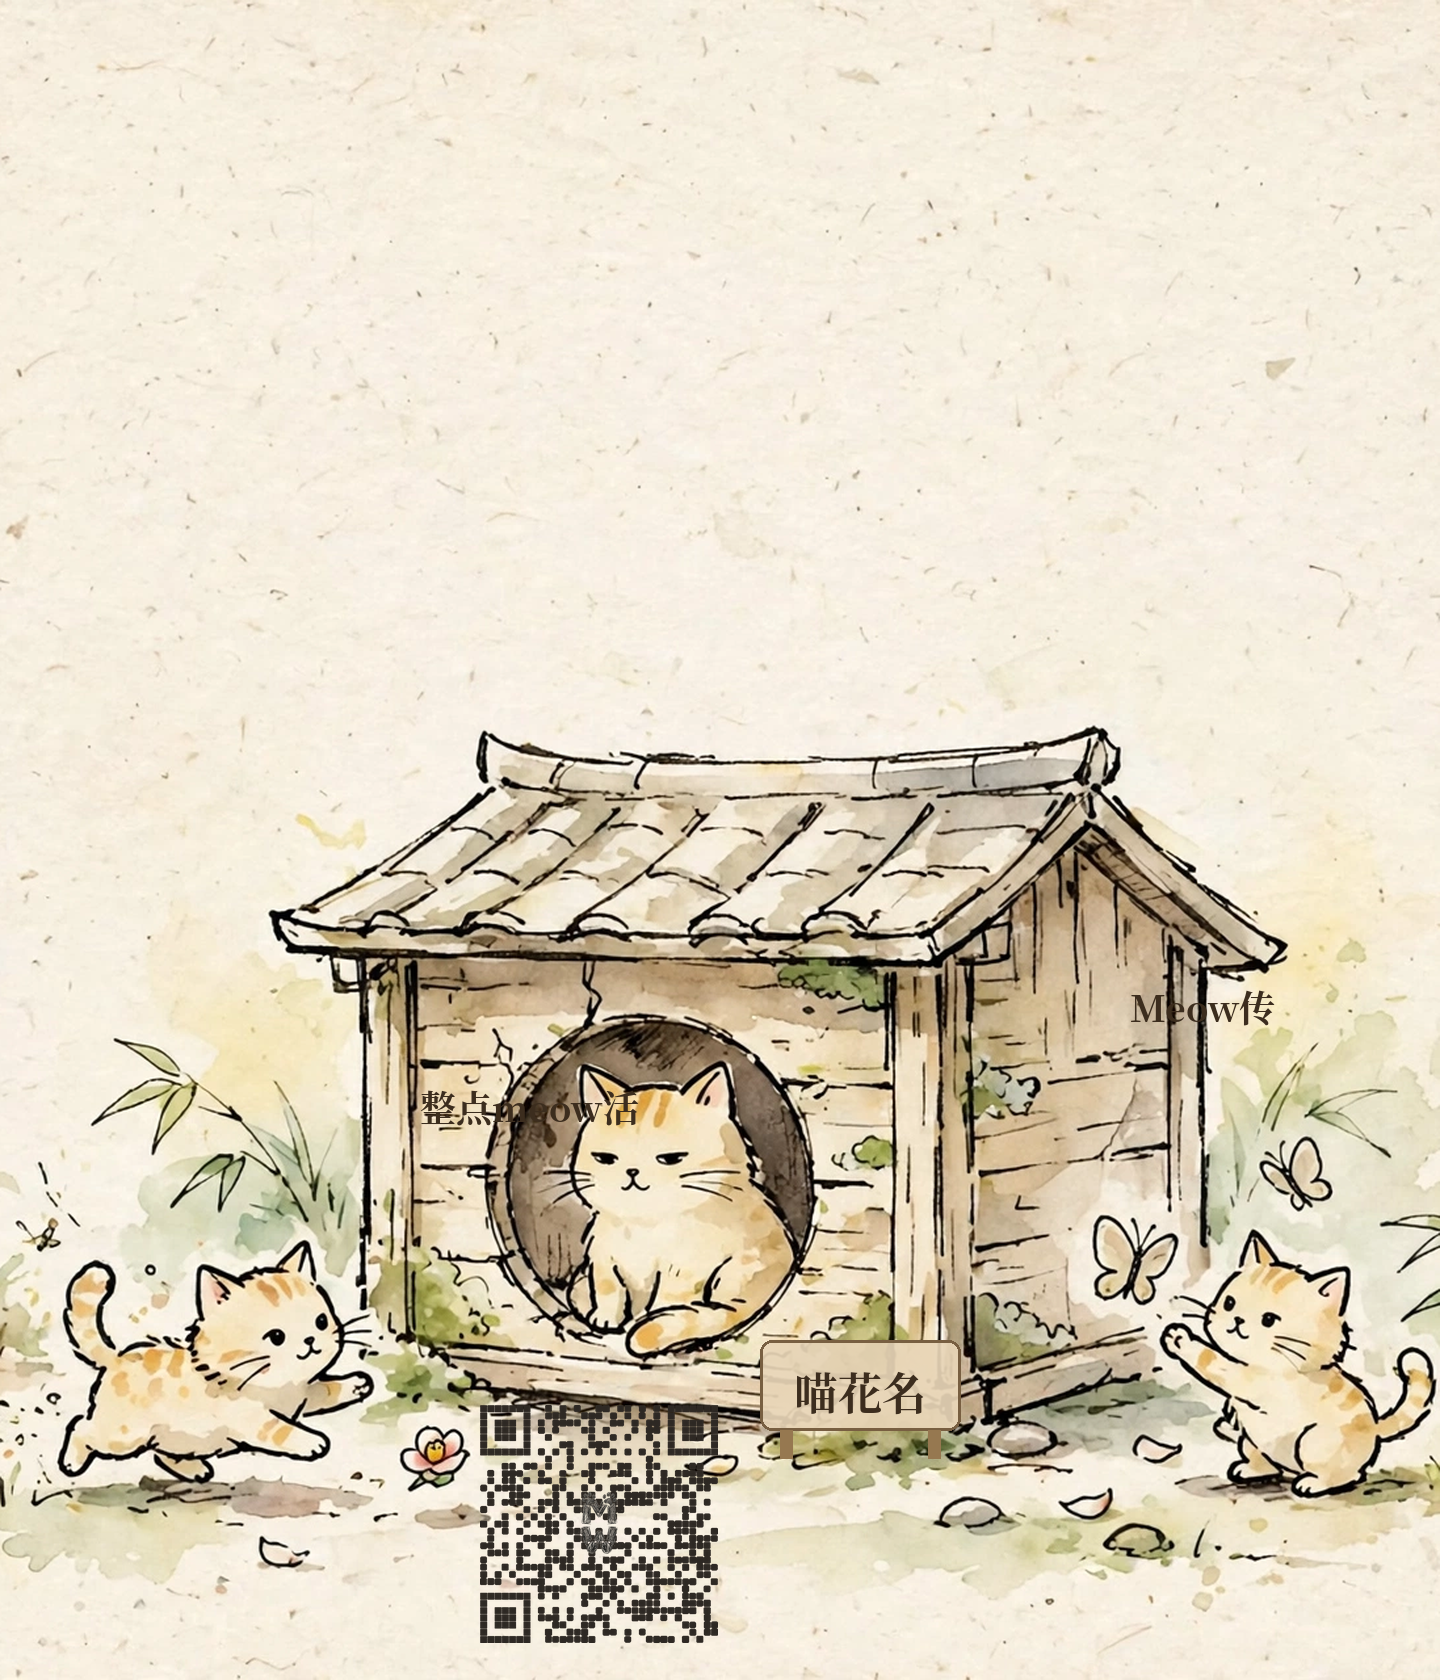
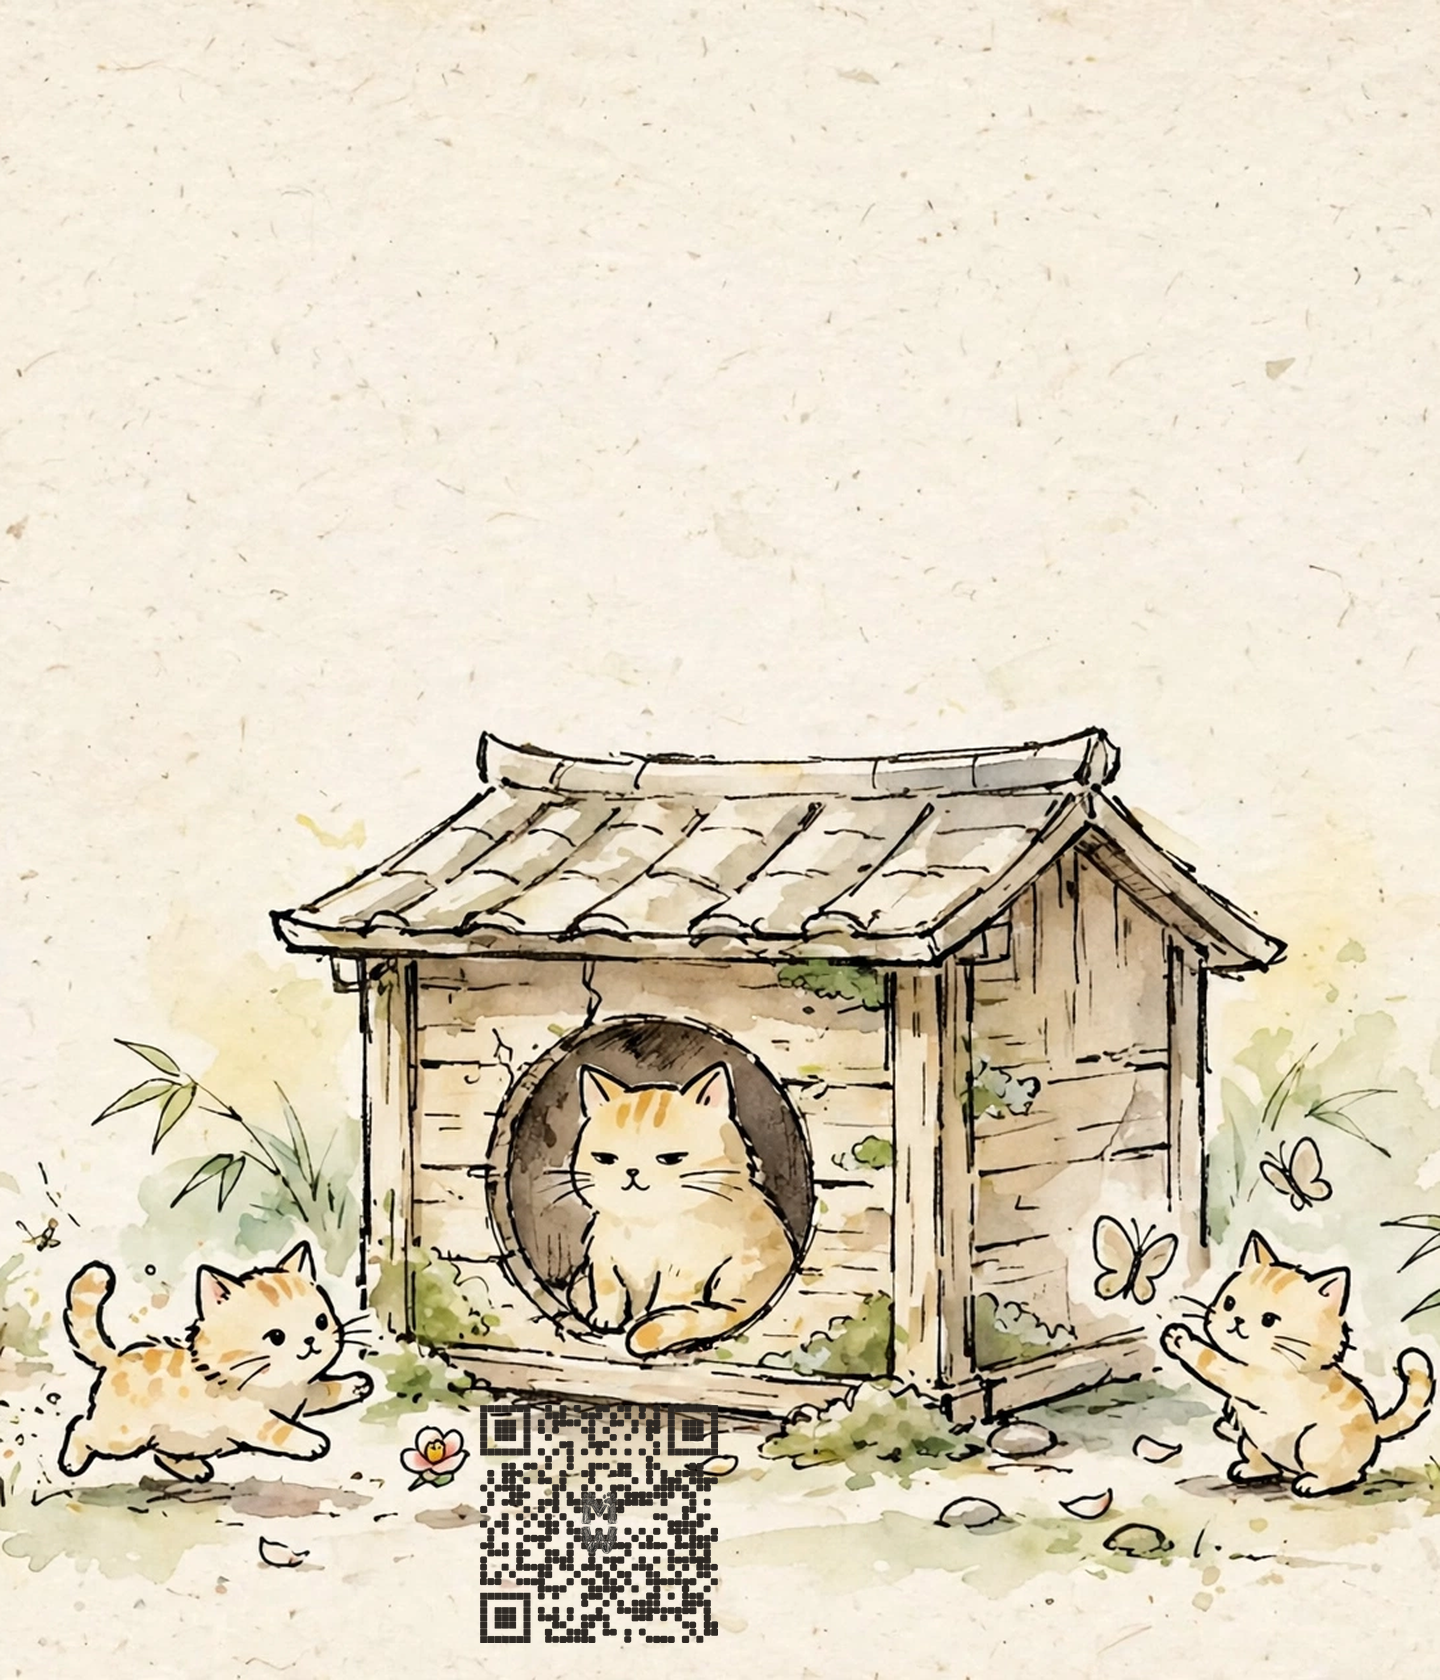
feat: 地图图去掉文字标签；每页加固定回到大地图按钮（v0.9.1）
- 地图图 meow-poster-map.png 重做：去掉告示牌「喵花名」与「整点meow活」「Meow传」文字标签，只留原图＋二维码。热点仍为无形可点区，图标待与 FC 一起调整。
- 每页（cats/story/stories/season）右下角加固定「回到地图」按钮（MW 脚掌＋文字），点了一口气回首页大地图。首页与 /map 本身就是地图，不加。

Changed region(s): [[0.5312, 0.7738, 0.6875, 0.8667], [0.2812, 0.65, 0.4375, 0.681], [0.7812, 0.5881, 0.875, 0.619]]

diff --git a/src/style.css b/src/style.css
@@ -1081,3 +1081,27 @@ footer .oneko-note { font-size: 0.82rem; opacity: 0.8; }
   .season-dot { animation: none; }
   .progress-track span { transition: none; }
 }
+
+/* 回到大地图：每页右下角固定一个小地图按钮，点了一口气回首页大地图。 */
+.map-home-btn {
+  position: fixed;
+  right: 16px;
+  bottom: 16px;
+  z-index: 50;
+  display: flex;
+  align-items: center;
+  gap: 6px;
+  padding: 8px 12px 8px 8px;
+  background: var(--card);
+  border: 1px solid var(--line);
+  border-radius: 999px;
+  box-shadow: 0 2px 8px rgba(74, 66, 56, 0.12);
+  color: var(--ink);
+  font-size: 0.85rem;
+  text-decoration: none;
+}
+.map-home-btn img {
+  width: 28px;
+  height: 28px;
+  display: block;
+}

diff --git a/cats.html b/cats.html
@@ -205,5 +205,6 @@
       </footer>
     </main>
     <script type="module" src="/src/main.ts"></script>
+      <a class="map-home-btn" href="./index.html" title="回到大地图"><img src="/favicon.png" alt="MW 脚掌" />回到地图</a>
   </body>
 </html>

diff --git a/season.html b/season.html
@@ -405,5 +405,6 @@
       </footer>
     </main>
     <script type="module" src="/src/main.ts"></script>
+      <a class="map-home-btn" href="./index.html" title="回到大地图"><img src="/favicon.png" alt="MW 脚掌" />回到地图</a>
   </body>
 </html>

diff --git a/stories.html b/stories.html
@@ -115,5 +115,6 @@
       </footer>
     </main>
     <script type="module" src="/src/main.ts"></script>
+      <a class="map-home-btn" href="./index.html" title="回到大地图"><img src="/favicon.png" alt="MW 脚掌" />回到地图</a>
   </body>
 </html>

diff --git a/story.html b/story.html
@@ -147,5 +147,6 @@
       </footer>
     </main>
     <script type="module" src="/src/main.ts"></script>
+      <a class="map-home-btn" href="./index.html" title="回到大地图"><img src="/favicon.png" alt="MW 脚掌" />回到地图</a>
   </body>
 </html>
